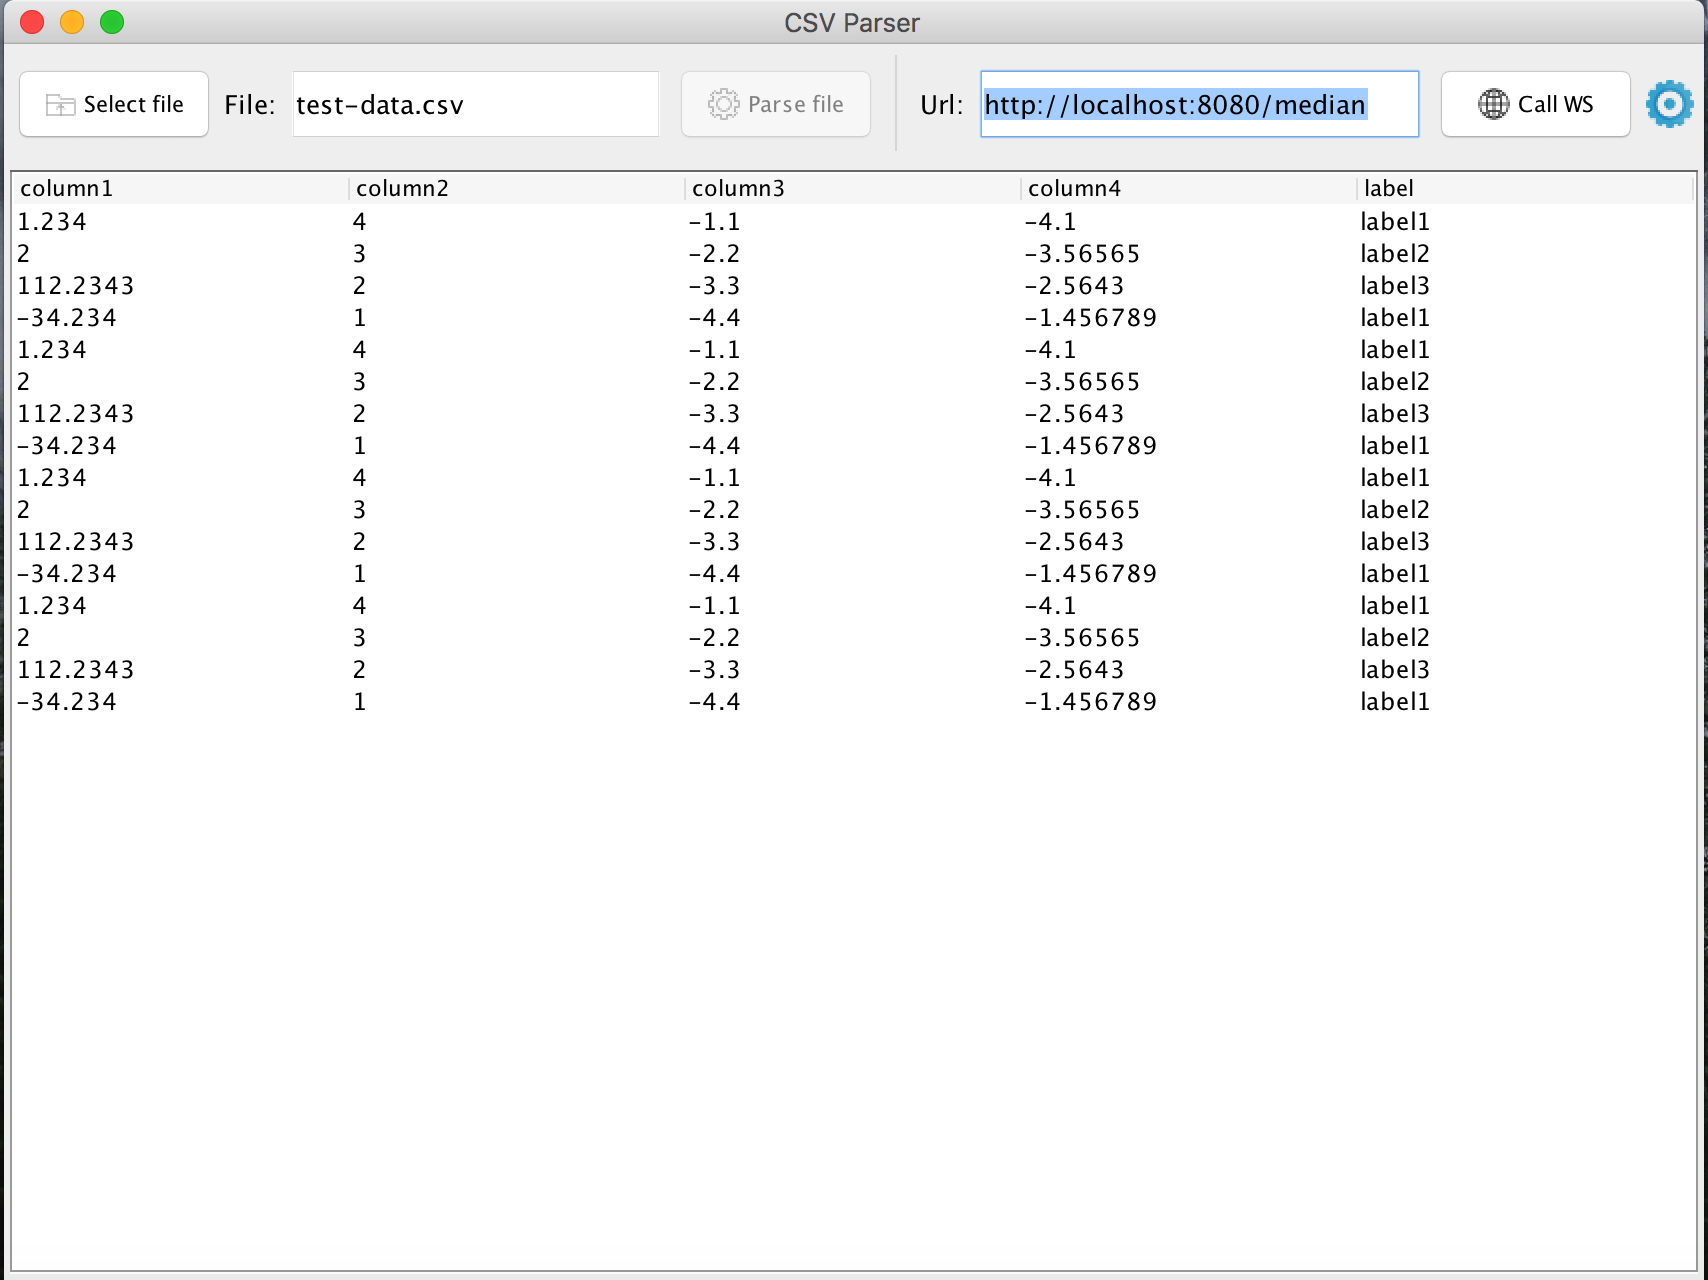
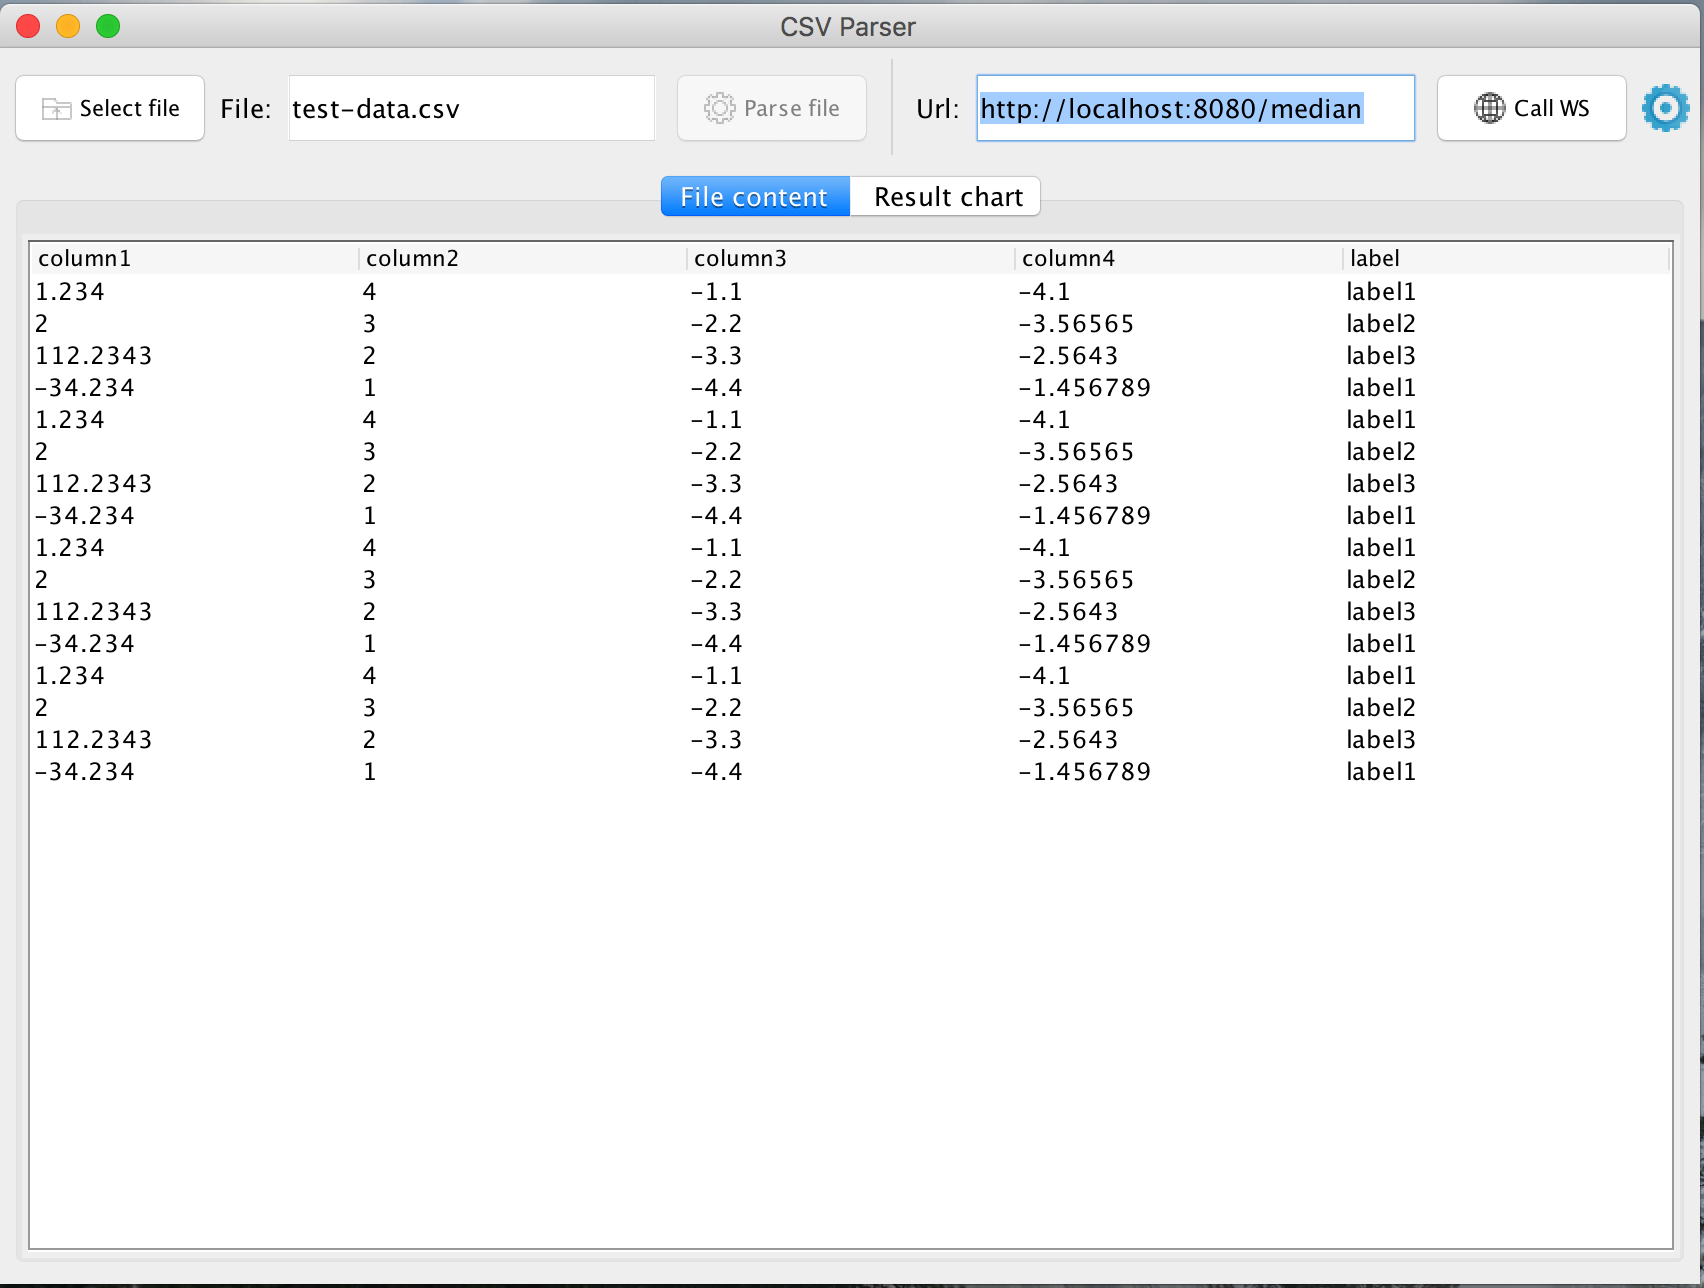
Update readme

diff --git a/readme.md b/readme.md
@@ -4,6 +4,9 @@ Standalone java application which is able to parse the provided CSV files, sends
 
 [<img src="doc/csvparser-main.png">](doc/csvparser-main.png)
 
+
+[<img src="doc/csvparser-chart.png">](doc/csvparser-chart.png)
+
 ### Build
 
 ```shell
